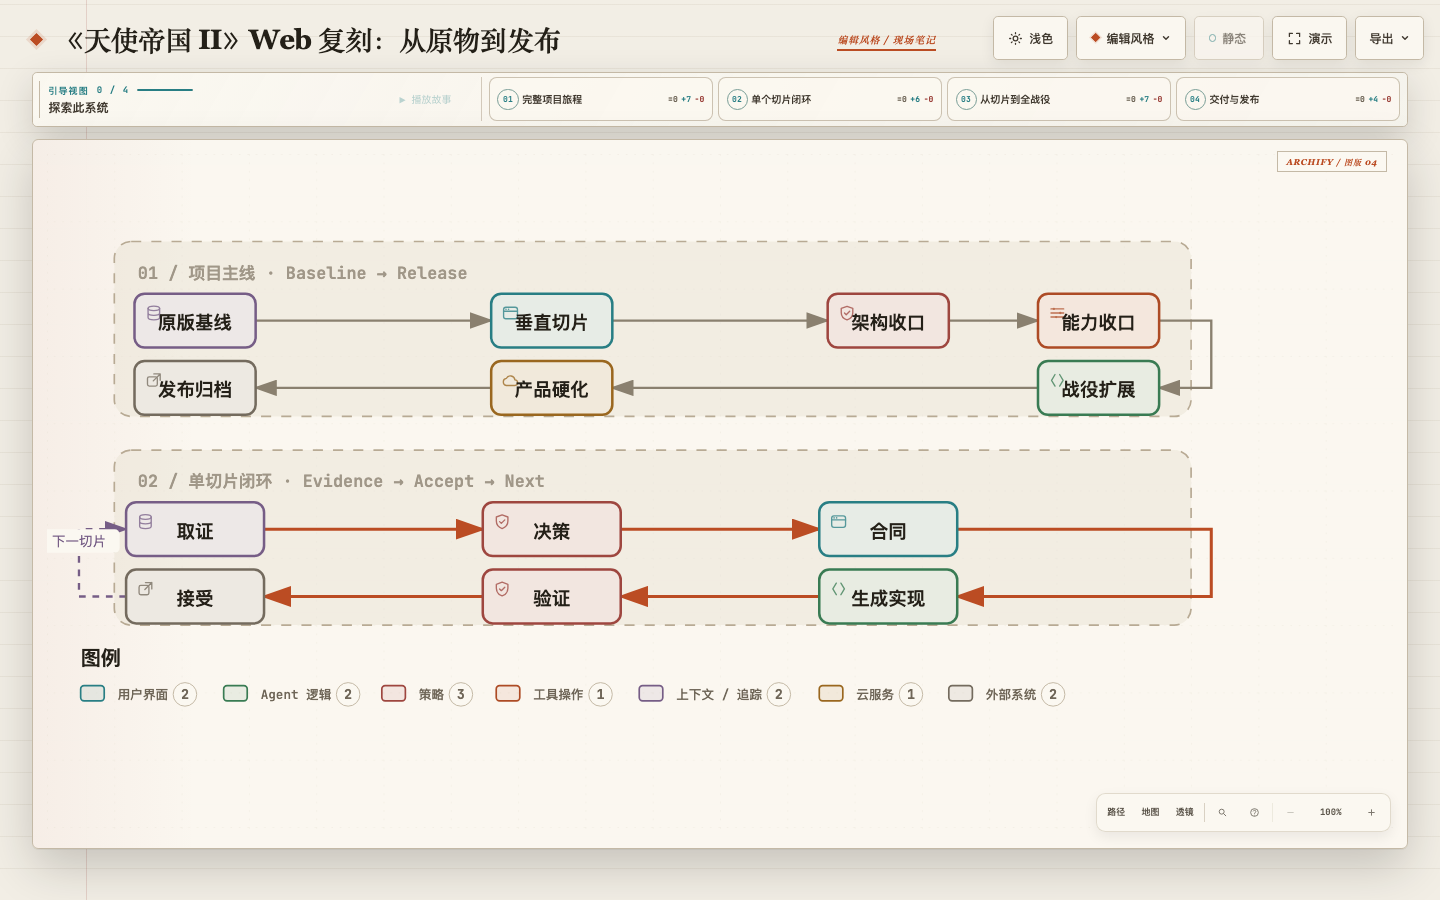
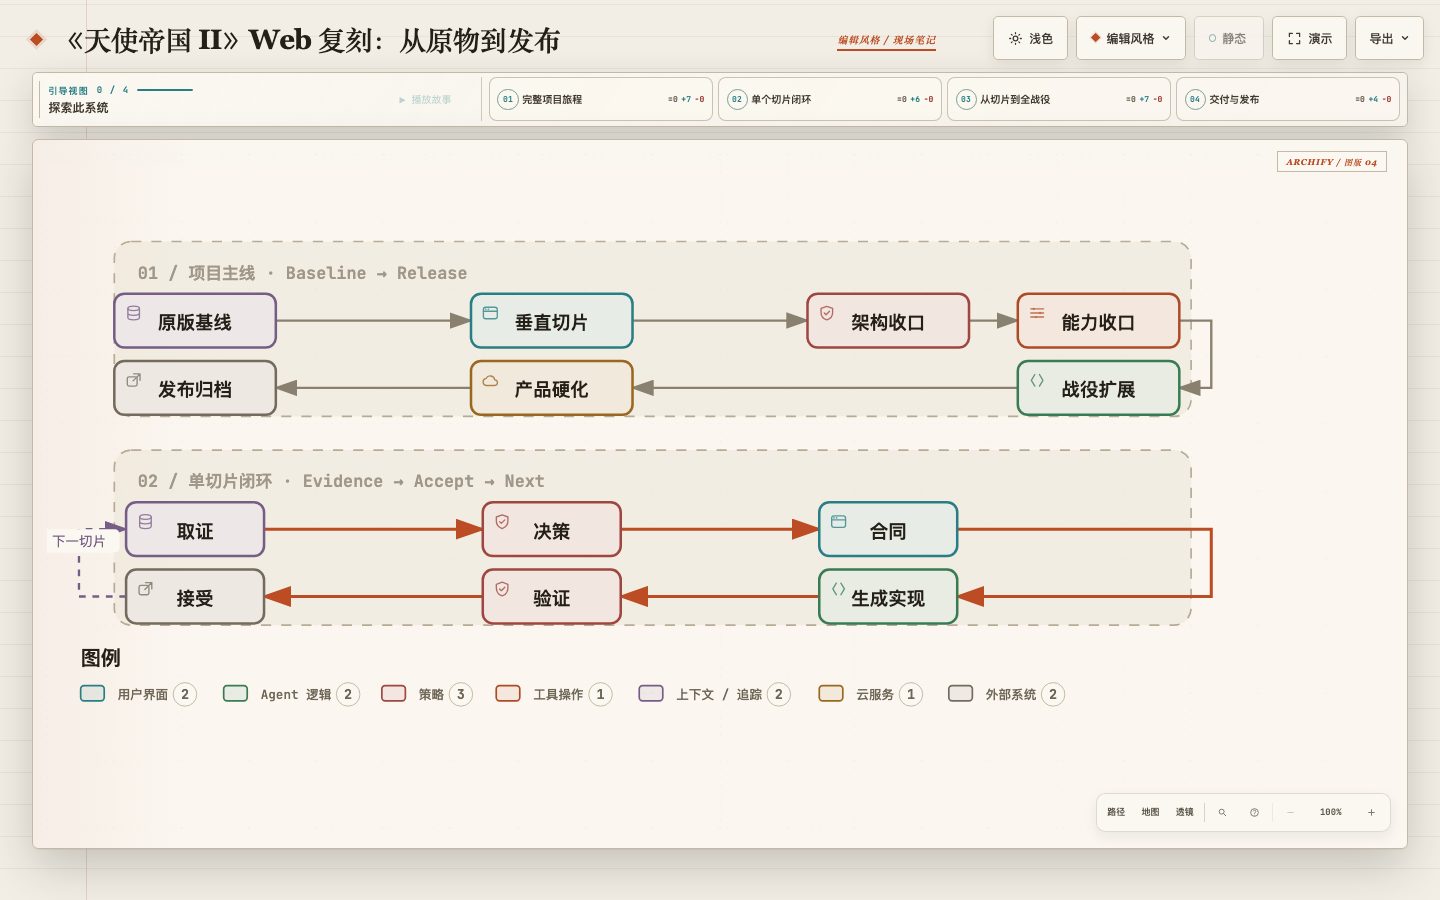
fix: update workflow dimensions and edge paths for clarity and consistency

diff --git a/ref/illustration/archify/angel2-remake-workflow.html b/ref/illustration/archify/angel2-remake-workflow.html
@@ -5036,12 +5036,12 @@
 
 
         <!-- Edge paths -->
-        <path data-edge-from="baseline" data-edge-to="vertical_slice" data-edge-key="0" data-edge-id="baseline-slice" data-composition-points="124,99;264,99" d="M 124 99 L 264 99" class="a-default" data-animate="edge" style="--step:0" stroke-width="1.4" marker-end="url(#arrowhead)"/>
-        <path data-edge-from="vertical_slice" data-edge-to="architecture" data-edge-key="1" data-edge-id="slice-architecture" data-composition-points="336,99;464,99" d="M 336 99 L 464 99" class="a-default" data-animate="edge" style="--step:1" stroke-width="1.4" marker-end="url(#arrowhead)"/>
-        <path data-edge-from="architecture" data-edge-to="capability_closure" data-edge-key="2" data-edge-id="architecture-capability" data-composition-points="536,99;589,99" d="M 536 99 L 589 99" class="a-default" data-animate="edge" style="--step:2" stroke-width="1.4" marker-end="url(#arrowhead)"/>
-        <path data-edge-from="capability_closure" data-edge-to="campaign" data-edge-key="3" data-edge-id="capability-campaign" data-composition-points="661,99;692,99;692,139;661,139" d="M 661 99 L 692 99 L 692 139 L 661 139" class="a-default" data-animate="edge" style="--step:3" stroke-width="1.4" marker-end="url(#arrowhead)"/>
-        <path data-edge-from="campaign" data-edge-to="hardening" data-edge-key="4" data-edge-id="campaign-hardening" data-composition-points="589,139;336,139" d="M 589 139 L 336 139" class="a-default" data-animate="edge" style="--step:4" stroke-width="1.4" marker-end="url(#arrowhead)"/>
-        <path data-edge-from="hardening" data-edge-to="release" data-edge-key="5" data-edge-id="hardening-release" data-composition-points="264,139;124,139" d="M 264 139 L 124 139" class="a-default" data-animate="edge" style="--step:5" stroke-width="1.4" marker-end="url(#arrowhead)"/>
+        <path data-edge-from="baseline" data-edge-to="vertical_slice" data-edge-key="0" data-edge-id="baseline-slice" data-composition-points="136,99;252,99" d="M 136 99 L 252 99" class="a-default" data-animate="edge" style="--step:0" stroke-width="1.4" marker-end="url(#arrowhead)"/>
+        <path data-edge-from="vertical_slice" data-edge-to="architecture" data-edge-key="1" data-edge-id="slice-architecture" data-composition-points="348,99;452,99" d="M 348 99 L 452 99" class="a-default" data-animate="edge" style="--step:1" stroke-width="1.4" marker-end="url(#arrowhead)"/>
+        <path data-edge-from="architecture" data-edge-to="capability_closure" data-edge-key="2" data-edge-id="architecture-capability" data-composition-points="548,99;577,99" d="M 548 99 L 577 99" class="a-default" data-animate="edge" style="--step:2" stroke-width="1.4" marker-end="url(#arrowhead)"/>
+        <path data-edge-from="capability_closure" data-edge-to="campaign" data-edge-key="3" data-edge-id="capability-campaign" data-composition-points="673,99;692,99;692,139;673,139" d="M 673 99 L 692 99 L 692 139 L 673 139" class="a-default" data-animate="edge" style="--step:3" stroke-width="1.4" marker-end="url(#arrowhead)"/>
+        <path data-edge-from="campaign" data-edge-to="hardening" data-edge-key="4" data-edge-id="campaign-hardening" data-composition-points="577,139;348,139" d="M 577 139 L 348 139" class="a-default" data-animate="edge" style="--step:4" stroke-width="1.4" marker-end="url(#arrowhead)"/>
+        <path data-edge-from="hardening" data-edge-to="release" data-edge-key="5" data-edge-id="hardening-release" data-composition-points="252,139;136,139" d="M 252 139 L 136 139" class="a-default" data-animate="edge" style="--step:5" stroke-width="1.4" marker-end="url(#arrowhead)"/>
         <path data-edge-from="evidence" data-edge-to="decision" data-edge-key="6" data-edge-id="evidence-decision" data-composition-points="129,223;259,223" d="M 129 223 L 259 223" class="a-emphasis" data-animate="edge" style="--step:6" stroke-width="1.8" marker-end="url(#arrowhead-emphasis)"/>
         <path data-edge-from="decision" data-edge-to="contract" data-edge-key="7" data-edge-id="decision-contract" data-composition-points="341,223;459,223" d="M 341 223 L 459 223" class="a-emphasis" data-animate="edge" style="--step:7" stroke-width="1.8" marker-end="url(#arrowhead-emphasis)"/>
         <path data-edge-from="contract" data-edge-to="build" data-edge-key="8" data-edge-id="contract-build" data-composition-points="541,223;692,223;692,263;541,263" d="M 541 223 L 692 223 L 692 263 L 541 263" class="a-emphasis" data-animate="edge" style="--step:8" stroke-width="1.8" marker-end="url(#arrowhead-emphasis)"/>
@@ -5052,9 +5052,9 @@
         <!-- Nodes -->
         <g id="node-baseline" data-node-id="baseline" data-node-label="原版基线" tabindex="0" role="button" aria-label="聚焦原版基线，项目主线 · Baseline → Release" aria-pressed="false" data-node-kind="database" data-node-context="项目主线 · Baseline → Release">
           <title>原版基线 · 项目主线 · Baseline → Release</title>
-          <rect x="52" y="83" width="72" height="32" rx="6" class="c-mask"/>
-          <rect x="52" y="83" width="72" height="32" rx="6" class="c-database" data-animate="node" style="--step:0" stroke-width="1.5"/>
-          <g aria-hidden="true" data-semantic-sigil="database" class="semantic-sigil s-database" transform="translate(58 89) scale(0.6875)">
+          <rect x="40" y="83" width="96" height="32" rx="6" class="c-mask"/>
+          <rect x="40" y="83" width="96" height="32" rx="6" class="c-database" data-animate="node" style="--step:0" stroke-width="1.5"/>
+          <g aria-hidden="true" data-semantic-sigil="database" class="semantic-sigil s-database" transform="translate(46 89) scale(0.6875)">
             <ellipse cx="8" cy="4" rx="5" ry="2"/>
             <path d="M3 4v8c0 1.1 2.2 2 5 2s5-.9 5-2V4M3 8c0 1.1 2.2 2 5 2s5-.9 5-2"/>
           </g>
@@ -5063,9 +5063,9 @@
 
         <g id="node-vertical_slice" data-node-id="vertical_slice" data-node-label="垂直切片" tabindex="0" role="button" aria-label="聚焦垂直切片，项目主线 · Baseline → Release" aria-pressed="false" data-node-kind="frontend" data-node-context="项目主线 · Baseline → Release">
           <title>垂直切片 · 项目主线 · Baseline → Release</title>
-          <rect x="264" y="83" width="72" height="32" rx="6" class="c-mask"/>
-          <rect x="264" y="83" width="72" height="32" rx="6" class="c-frontend" data-animate="node" style="--step:1" stroke-width="1.5"/>
-          <g aria-hidden="true" data-semantic-sigil="frontend" class="semantic-sigil s-frontend" transform="translate(270 89) scale(0.6875)">
+          <rect x="252" y="83" width="96" height="32" rx="6" class="c-mask"/>
+          <rect x="252" y="83" width="96" height="32" rx="6" class="c-frontend" data-animate="node" style="--step:1" stroke-width="1.5"/>
+          <g aria-hidden="true" data-semantic-sigil="frontend" class="semantic-sigil s-frontend" transform="translate(258 89) scale(0.6875)">
             <rect x="2" y="3" width="12" height="10" rx="2"/>
             <path d="M2 6.5h12"/>
             <circle cx="4.1" cy="4.8" r=".7" class="sigil-fill"/>
@@ -5076,9 +5076,9 @@
 
         <g id="node-architecture" data-node-id="architecture" data-node-label="架构收口" tabindex="0" role="button" aria-label="聚焦架构收口，项目主线 · Baseline → Release" aria-pressed="false" data-node-kind="security" data-node-context="项目主线 · Baseline → Release">
           <title>架构收口 · 项目主线 · Baseline → Release</title>
-          <rect x="464" y="83" width="72" height="32" rx="6" class="c-mask"/>
-          <rect x="464" y="83" width="72" height="32" rx="6" class="c-security" data-animate="node" style="--step:2" stroke-width="1.5"/>
-          <g aria-hidden="true" data-semantic-sigil="security" class="semantic-sigil s-security" transform="translate(470 89) scale(0.6875)">
+          <rect x="452" y="83" width="96" height="32" rx="6" class="c-mask"/>
+          <rect x="452" y="83" width="96" height="32" rx="6" class="c-security" data-animate="node" style="--step:2" stroke-width="1.5"/>
+          <g aria-hidden="true" data-semantic-sigil="security" class="semantic-sigil s-security" transform="translate(458 89) scale(0.6875)">
             <path d="M8 2.2 13 4v3.5c0 3.1-1.8 5.4-5 6.5-3.2-1.1-5-3.4-5-6.5V4Z"/>
             <path d="m5.8 8 1.5 1.5 3-3"/>
           </g>
@@ -5087,9 +5087,9 @@
 
         <g id="node-capability_closure" data-node-id="capability_closure" data-node-label="能力收口" tabindex="0" role="button" aria-label="聚焦能力收口，项目主线 · Baseline → Release" aria-pressed="false" data-node-kind="messagebus" data-node-context="项目主线 · Baseline → Release">
           <title>能力收口 · 项目主线 · Baseline → Release</title>
-          <rect x="589" y="83" width="72" height="32" rx="6" class="c-mask"/>
-          <rect x="589" y="83" width="72" height="32" rx="6" class="c-messagebus" data-animate="node" style="--step:3" stroke-width="1.5"/>
-          <g aria-hidden="true" data-semantic-sigil="messagebus" class="semantic-sigil s-messagebus" transform="translate(595 89) scale(0.6875)">
+          <rect x="577" y="83" width="96" height="32" rx="6" class="c-mask"/>
+          <rect x="577" y="83" width="96" height="32" rx="6" class="c-messagebus" data-animate="node" style="--step:3" stroke-width="1.5"/>
+          <g aria-hidden="true" data-semantic-sigil="messagebus" class="semantic-sigil s-messagebus" transform="translate(583 89) scale(0.6875)">
             <path d="M2.5 4.5h11M2.5 8h11M2.5 11.5h11"/>
             <circle cx="5" cy="4.5" r="1" class="sigil-fill"/>
             <circle cx="10.5" cy="8" r="1" class="sigil-fill"/>
@@ -5100,9 +5100,9 @@
 
         <g id="node-campaign" data-node-id="campaign" data-node-label="战役扩展" tabindex="0" role="button" aria-label="聚焦战役扩展，项目主线 · Baseline → Release" aria-pressed="false" data-node-kind="backend" data-node-context="项目主线 · Baseline → Release">
           <title>战役扩展 · 项目主线 · Baseline → Release</title>
-          <rect x="589" y="123" width="72" height="32" rx="6" class="c-mask"/>
-          <rect x="589" y="123" width="72" height="32" rx="6" class="c-backend" data-animate="node" style="--step:4" stroke-width="1.5"/>
-          <g aria-hidden="true" data-semantic-sigil="backend" class="semantic-sigil s-backend" transform="translate(595 129) scale(0.6875)">
+          <rect x="577" y="123" width="96" height="32" rx="6" class="c-mask"/>
+          <rect x="577" y="123" width="96" height="32" rx="6" class="c-backend" data-animate="node" style="--step:4" stroke-width="1.5"/>
+          <g aria-hidden="true" data-semantic-sigil="backend" class="semantic-sigil s-backend" transform="translate(583 129) scale(0.6875)">
             <path d="M6 3 3 8l3 5M10 3l3 5-3 5"/>
           </g>
           <text data-node-label="" x="625" y="144" class="t-primary" font-size="11" font-weight="600" text-anchor="middle">战役扩展</text>
@@ -5110,9 +5110,9 @@
 
         <g id="node-hardening" data-node-id="hardening" data-node-label="产品硬化" tabindex="0" role="button" aria-label="聚焦产品硬化，项目主线 · Baseline → Release" aria-pressed="false" data-node-kind="cloud" data-node-context="项目主线 · Baseline → Release">
           <title>产品硬化 · 项目主线 · Baseline → Release</title>
-          <rect x="264" y="123" width="72" height="32" rx="6" class="c-mask"/>
-          <rect x="264" y="123" width="72" height="32" rx="6" class="c-cloud" data-animate="node" style="--step:5" stroke-width="1.5"/>
-          <g aria-hidden="true" data-semantic-sigil="cloud" class="semantic-sigil s-cloud" transform="translate(270 129) scale(0.6875)">
+          <rect x="252" y="123" width="96" height="32" rx="6" class="c-mask"/>
+          <rect x="252" y="123" width="96" height="32" rx="6" class="c-cloud" data-animate="node" style="--step:5" stroke-width="1.5"/>
+          <g aria-hidden="true" data-semantic-sigil="cloud" class="semantic-sigil s-cloud" transform="translate(258 129) scale(0.6875)">
             <path d="M4.3 12.5h7.3a2.4 2.4 0 0 0 .2-4.8 4 4 0 0 0-7.5-1.3A3.1 3.1 0 0 0 4.3 12.5Z"/>
           </g>
           <text data-node-label="" x="300" y="144" class="t-primary" font-size="11" font-weight="600" text-anchor="middle">产品硬化</text>
@@ -5120,9 +5120,9 @@
 
         <g id="node-release" data-node-id="release" data-node-label="发布归档" tabindex="0" role="button" aria-label="聚焦发布归档，项目主线 · Baseline → Release" aria-pressed="false" data-node-kind="external" data-node-context="项目主线 · Baseline → Release">
           <title>发布归档 · 项目主线 · Baseline → Release</title>
-          <rect x="52" y="123" width="72" height="32" rx="6" class="c-mask"/>
-          <rect x="52" y="123" width="72" height="32" rx="6" class="c-external" data-animate="node" style="--step:6" stroke-width="1.5"/>
-          <g aria-hidden="true" data-semantic-sigil="external" class="semantic-sigil s-external" transform="translate(58 129) scale(0.6875)">
+          <rect x="40" y="123" width="96" height="32" rx="6" class="c-mask"/>
+          <rect x="40" y="123" width="96" height="32" rx="6" class="c-external" data-animate="node" style="--step:6" stroke-width="1.5"/>
+          <g aria-hidden="true" data-semantic-sigil="external" class="semantic-sigil s-external" transform="translate(46 129) scale(0.6875)">
             <rect x="2.5" y="5" width="8.5" height="8" rx="1.5"/>
             <path d="M8 2.5h5.5V8M13.5 2.5 7.5 8.5"/>
           </g>
